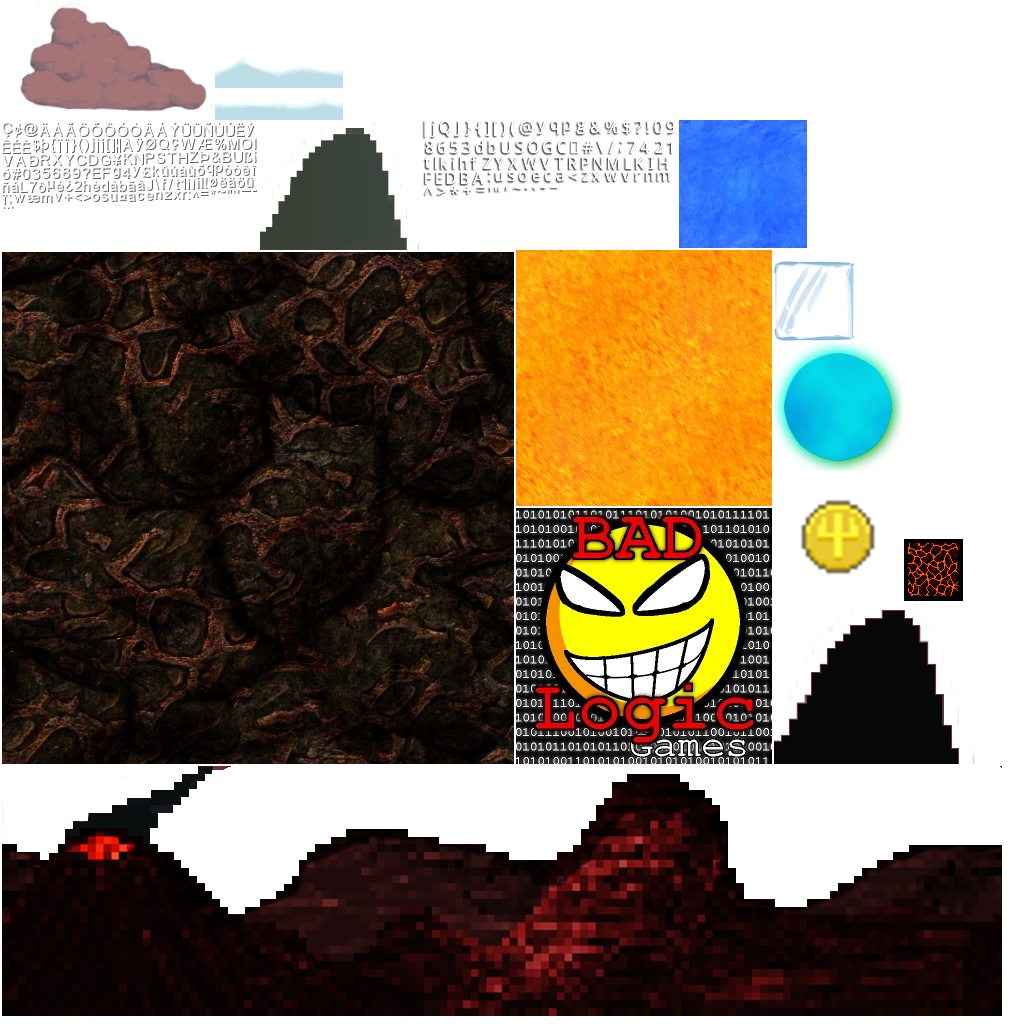
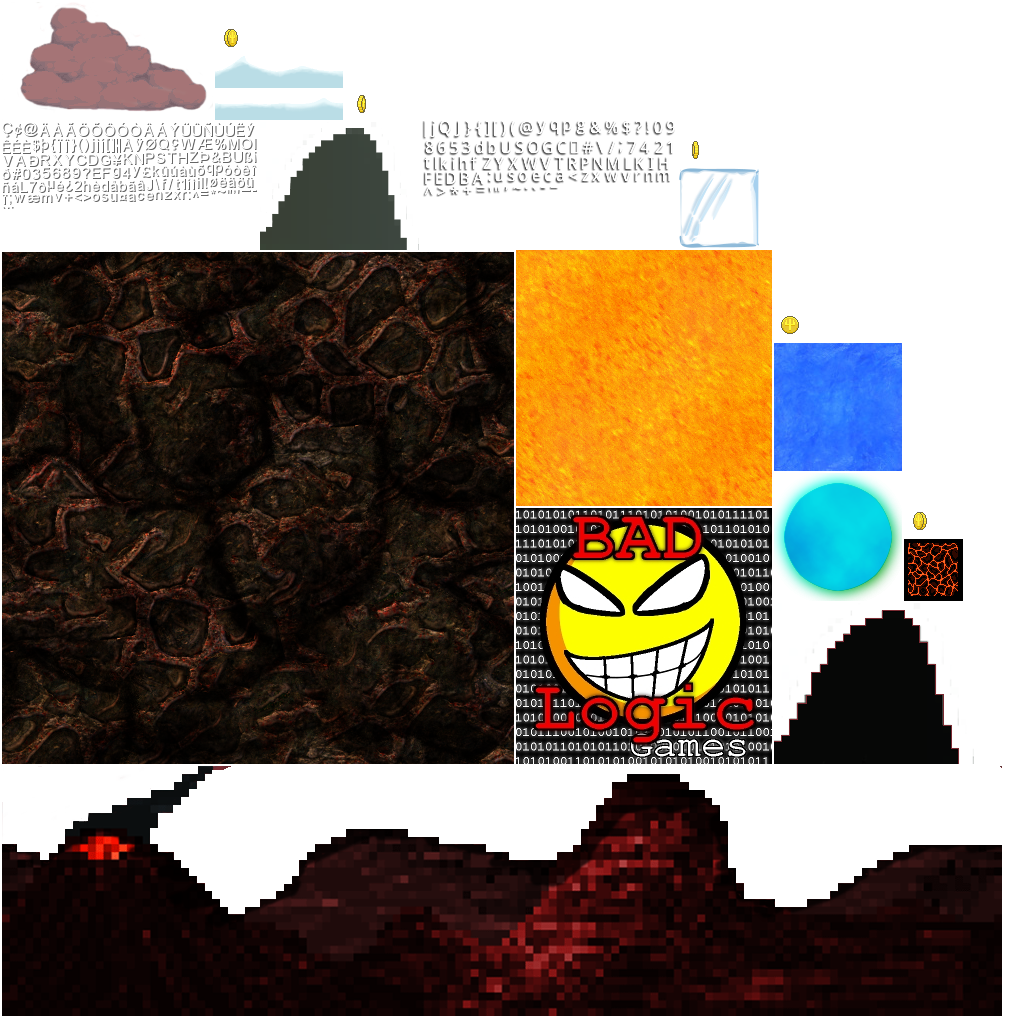
Assignment #12
Changed: AbstractGameObject, GoldCoin, Assets
Added an animation for the gold coin

Changed region(s): [[0.6562, 0.0938, 0.9062, 0.5938], [0.3438, 0.0938, 0.375, 0.125], [0.2188, 0.0312, 0.25, 0.0625]]

diff --git a/core/src/com/rebok/gdx/game/objects/GoldCoin.java b/core/src/com/rebok/gdx/game/objects/GoldCoin.java
@@ -2,6 +2,7 @@ package com.rebok.gdx.game.objects;
 
 import com.badlogic.gdx.graphics.g2d.SpriteBatch;
 import com.badlogic.gdx.graphics.g2d.TextureRegion;
+import com.badlogic.gdx.math.MathUtils;
 import com.rebok.gdx.game.Assets;
 
 /**
@@ -22,7 +23,10 @@ public class GoldCoin extends AbstractGameObject {
 	 */
 	private void init () {
 	    dimension.set(0.5f, 0.5f);
-	    regGoldCoin = Assets.instance.goldCoin.goldCoin;
+	    
+	    setAnimation(Assets.instance.goldCoin.animGoldCoin);
+	    stateTime = MathUtils.random(0.0f, 1.0f);
+	    
 	    // Set bounding box for collision detection
 	    bounds.set(0, 0, dimension.x, dimension.y);
 	    collected = false;
@@ -33,13 +37,18 @@ public class GoldCoin extends AbstractGameObject {
 	 * @param batch
 	 */
 	public void render (SpriteBatch batch) {
-	    if (collected) return;
-	    TextureRegion reg = null;
-	    reg = regGoldCoin;
-	    batch.draw(reg.getTexture(), position.x, position.y,  
-	    			origin.x, origin.y, dimension.x, dimension.y, scale.x, scale.y,  
-	    			rotation, reg.getRegionX(), reg.getRegionY(),  
-	    			reg.getRegionWidth(), reg.getRegionHeight(), false, false);
+		if (collected) return;
+		TextureRegion reg = null;
+		reg = animation.getKeyFrame(stateTime, true);
+		batch.draw(reg.getTexture(),  
+					position.x, position.y,  
+					origin.x, origin.y,  
+					dimension.x, dimension.y,  
+					scale.x, scale.y,  
+					rotation,  
+					reg.getRegionX(), reg.getRegionY(),  
+					reg.getRegionWidth(), reg.getRegionHeight(),  
+					false, false);
 	}
 	
 	/**

diff --git a/core/src/com/rebok/gdx/game/Assets.java b/core/src/com/rebok/gdx/game/Assets.java
@@ -6,8 +6,10 @@ import com.badlogic.gdx.assets.AssetErrorListener;
 import com.badlogic.gdx.assets.AssetManager;
 import com.badlogic.gdx.audio.Music;
 import com.badlogic.gdx.audio.Sound;
+import com.badlogic.gdx.graphics.g2d.Animation;
 import com.badlogic.gdx.graphics.g2d.BitmapFont;
 import com.badlogic.gdx.graphics.g2d.TextureAtlas;
+import com.badlogic.gdx.utils.Array;
 import com.badlogic.gdx.utils.Disposable;
 import com.rebok.gdx.game.util.Constants;
 import com.badlogic.gdx.graphics.g2d.TextureAtlas.AtlasRegion;
@@ -147,13 +149,21 @@ public class Assets implements Disposable, AssetErrorListener {
 	 */
 	public class AssetGoldCoin {
 	    public final AtlasRegion goldCoin; //gold coin
+	    public final Animation animGoldCoin; //for animation
 	    
 	    /**
 	     * Constructor for the coin
 	     * @param atlas
 	     */
 	    public AssetGoldCoin (TextureAtlas atlas) {
-	        goldCoin = atlas.findRegion("goldCoin5");
+	        goldCoin = atlas.findRegion("item_goldCoin");
+	        
+	        // Animation: Gold Coin
+	        Array<AtlasRegion> regions = atlas.findRegions("anim_goldCoin");
+	        AtlasRegion region = regions.first();
+	        for (int i = 0; i < 10; i++)
+	        regions.insert(0, region);
+	        animGoldCoin = new Animation(1.0f / 20.0f, regions, Animation.PlayMode.LOOP_PINGPONG);
 	    }
 	}
 	

diff --git a/core/src/com/rebok/gdx/game/objects/AbstractGameObject.java b/core/src/com/rebok/gdx/game/objects/AbstractGameObject.java
@@ -1,5 +1,6 @@
 package com.rebok.gdx.game.objects;
 
+import com.badlogic.gdx.graphics.g2d.Animation;
 import com.badlogic.gdx.graphics.g2d.SpriteBatch;
 import com.badlogic.gdx.math.MathUtils;
 import com.badlogic.gdx.math.Rectangle;
@@ -26,6 +27,9 @@ public abstract class AbstractGameObject {
     
     // Box2D Physics
  	public Body body;
+ 	
+ 	public float stateTime; //animations
+ 	public Animation animation;
     
     //Constructor
     public AbstractGameObject () {
@@ -42,12 +46,21 @@ public abstract class AbstractGameObject {
     }
     
     /**
+     * Set the animation
+     * @param animation
+     */
+    public void setAnimation (Animation animation) {
+    	this.animation = animation;
+    	stateTime = 0;
+    }
+    
+    /**
      * Update method for objects, called by our world controller
      * @param deltaTime
      * @author Dr.Girard, Justin
      */
     public void update (float deltaTime) {
-		//stateTime += deltaTime;
+		stateTime += deltaTime;
 		if (body == null)
 		{
 			updateMotionX(deltaTime);
